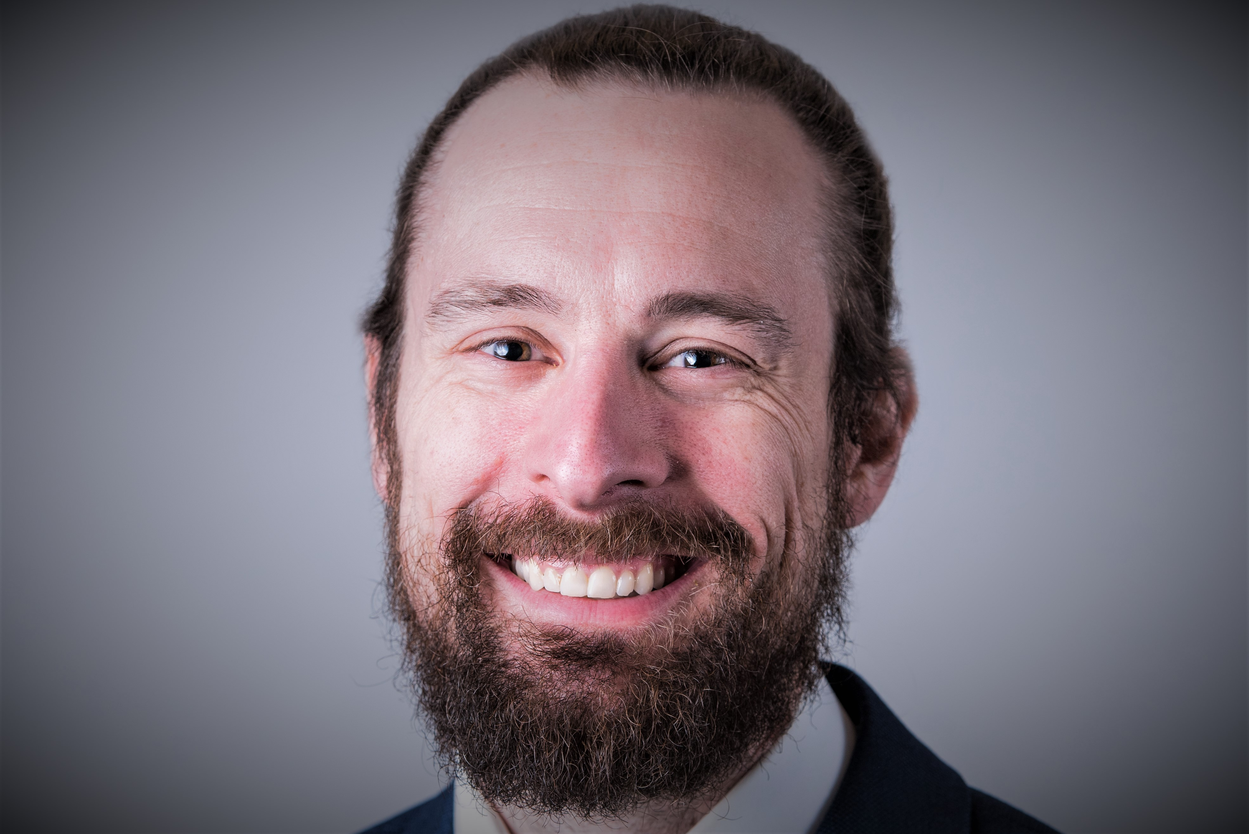
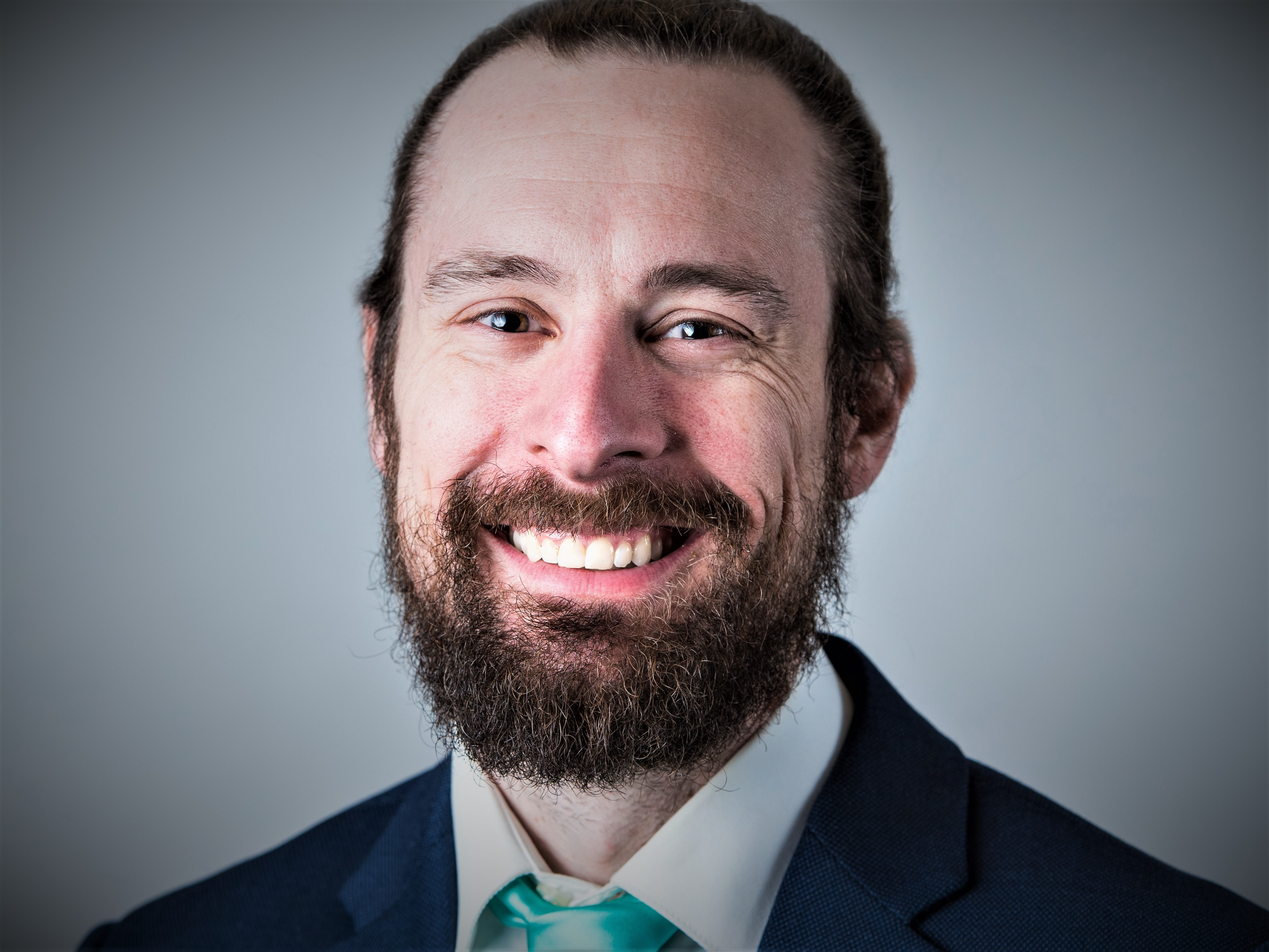
fixed image sizing and touched a few images

diff --git a/styles/styles.css b/styles/styles.css
@@ -98,6 +98,7 @@ body{
 }
 
 #photoBox{
+    max-width: 1000px;
     display: flex;
     flex-direction: column;
     align-items: center;
@@ -113,7 +114,7 @@ header{
 
 #photo{
     margin-top: 8.5em;
-    max-width: 50vw;
+    max-width: 50%;
     border-radius: 2em;
     border: 3px double darkgrey;
     transition: ease-in-out;
@@ -121,7 +122,7 @@ header{
 
 .fadeAway {
     animation-name: imageFadeOut;
-    animation-duration: 7s;
+    animation-duration: 4s;
     opacity: 0;
 }
 
@@ -138,7 +139,7 @@ header{
 
 #photoBackDrop{
     height: auto;
-    max-width: 95vw;
+    max-width: 95%;
     border-radius: 5em;
     border: 10px solid whitesmoke;
     position: absolute;

diff --git a/index.html b/index.html
@@ -21,9 +21,9 @@
     
     <!-- image dom -->
     <div id="photoBox">
-    <img id="photo" class="portrait fadeBack" src="./resources/Navigator.JPG" alt="">
-    <label id="photoLabel" for="navigator">Ship's Navigator</label>
-    <img id="photoBackDrop" src="./resources/Deck of the Lady.JPG" alt="">
+    <img id="photo" class="portrait fadeBack" src="" alt="">
+    <label id="photoLabel" for=""></label>
+    <img id="photoBackDrop" src="" alt="">
 
     <button id="change" class="button"> Change Image </button>
     </div>

diff --git a/javascript/index.js b/javascript/index.js
@@ -3,7 +3,7 @@ const image0 = "./resources/Head Shot.JPG"
 const img0Lab = "Full Stack Software Developer/on-the-journey"
 const img0BD = "./resources/Code.JPG"
 const image1 = "./resources/Navigator.JPG"
-const img1Lab = "Ship's Navigator"
+const img1Lab = "Mariner"
 const img1BD = "./resources/Deck of the Lady.JPG"
 const image2 = "./resources/Man and Goats.JPG"
 const img2Lab = "Mountaineer"
